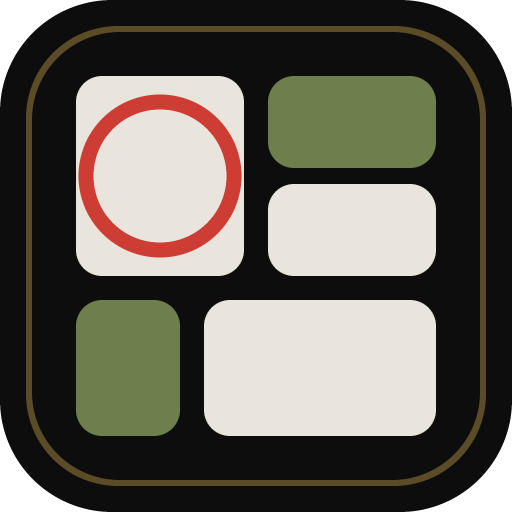
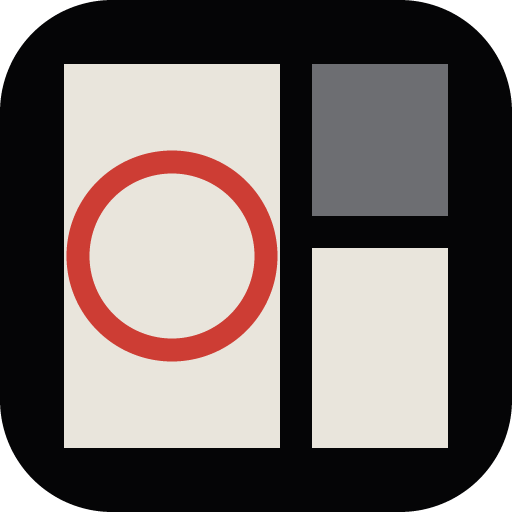
Give it a mark, and draw the name beside it
The bento grid logo, on the site header, the lock screen, the favicon
and the extension toolbar icon.

It started as four compartments and that was wrong. Four near equal
cells in alternating cream and grey read as a checkerboard rather than
as a bento, and at sixteen pixels they turned into a smudge. Three
cells with a real size hierarchy read as compartments and survive being
shrunk to a tab icon. That was found by rasterising the thing and
looking at it rather than by reasoning about it, which is also how the
grease circle was caught bursting out of the compartment it was meant
to sit inside.

BENTO beside it is drawn as outlines rather than set in a typeface. A
logo is artwork, so this way it carries no font dependency, renders the
same everywhere, and the extension embeds the identical paths without a
font file going into an MV3 bundle. The type rule survives intact: live
text is still Oswald and IBM Plex Mono, and there is no third face in
the project. Each letter is cut by a slot at the same height, echoing
the perforations down the edge of a frame.

On first paint the letters come up one at a time and the circle pencils
itself in, both reusing keyframes that already existed. Hovering winds
the compartments on a rung in sequence.

The toolbar icon was still drawing itself in a matcha green from the
palette this design replaced, so it now matches the rest.

The tag hover sweep is a background-size transition rather than a
[…]

diff --git a/website/components/Wordmark.tsx b/website/components/Wordmark.tsx
@@ -1,22 +1,130 @@
 import Link from "next/link"
 
 /**
- * The film leader. Matches the extension popup's header exactly: the name in
- * wide tracked Oswald, a roll number beside it, and the frame count off to the
- * right where a camera would show its exposure counter.
+ * The mark: logo D, the bento grid.
+ *
+ * Three compartments with a real size hierarchy, the largest circled in grease
+ * pencil. It is the product in miniature, a bento tray and a contact sheet at
+ * once, which is the whole conceit of the app in one square.
+ *
+ * Three and not four: four near equal cells in alternating colours read as a
+ * checkerboard rather than as compartments, and they turned to mush at tab
+ * size. This was drawn, rasterised and looked at before it was kept.
+ *
+ * The circle is the same gesture as starring a bookmark, so the identity and
+ * the app's one interactive flourish are literally the same drawing.
+ */
+export function Mark({ className = "", animate = false }: { className?: string; animate?: boolean }) {
+  return (
+    <svg viewBox="0 0 64 64" className={className} aria-hidden focusable="false">
+      {/* Compartments. data-cell drives the hover advance, see globals.css. */}
+      <g className="mark-cells">
+        <rect data-cell="0" x="8" y="8" width="27" height="48" fill="var(--color-print)" />
+        <rect data-cell="1" x="39" y="8" width="17" height="19" fill="var(--color-silver-dim)" />
+        <rect data-cell="2" x="39" y="31" width="17" height="25" fill="var(--color-print)" />
+      </g>
+
+      {/*
+       * The grease circle, the same hand drawn path the star uses, sized to sit
+       * inside the tall compartment rather than burst out of it. Not a clean
+       * ellipse on purpose: it wobbles, and it overshoots where the hand came
+       * back round.
+       */}
+      <g transform="translate(21.5,32) scale(1.18) translate(-15,-15)">
+        <path
+          className={animate ? "animate-grease" : undefined}
+          style={animate ? ({ "--dash": "78" } as React.CSSProperties) : undefined}
+          d="M20.8 5.9c4.4 1.6 6.4 6.7 4.6 11.1c-1.9 4.6-7.4 7.3-12.2 6.1C8.2 21.9 5 17.2 5.7 12.4C6.4 7.8 10.8 4.4 15.6 4.6c3.4.1 6.7 1.7 8.5 4.3c.5.8.9 1.6 1.1 2.5"
+          fill="none"
+          stroke="var(--color-grease)"
+          strokeWidth="2.4"
+          strokeLinecap="round"
+          strokeLinejoin="round"
+        />
+      </g>
+    </svg>
+  )
+}
+
+/*
+ * The letters, drawn rather than set.
+ *
+ * A logo is artwork, so it carries no font dependency, renders identically
+ * wherever it lands, and lets the extension embed the exact same paths without
+ * shipping a font file into an MV3 bundle. It also means the type rule stays
+ * intact: live text is still Oswald and IBM Plex Mono everywhere else, and
+ * there is no third face in the project.
+ *
+ * Proportions follow Oswald, condensed and heavy, then cut: a slot through
+ * every letter at the same height, echoing the sprocket perforations that run
+ * down the edge of a frame. Each letter is one path so they can be staggered.
+ */
+const LETTERS: string[] = [
+  // B
+  "M0 0h11.4c4.2 0 6.6 2.1 6.6 5.9c0 2.5-1.1 4.2-3.2 5.1c2.6.8 4 2.7 4 5.6c0 4.2-2.6 6.4-7.2 6.4H0V0zm5.6 4.3v4.6h4.5c1.6 0 2.5-.8 2.5-2.3c0-1.5-.9-2.3-2.5-2.3H5.6zm0 8.8v5.4h5c1.8 0 2.8-.9 2.8-2.7c0-1.8-1-2.7-2.8-2.7h-5z",
+  // E
+  "M0 0h16.6v4.5H5.6v4.3h9.9v4.4H5.6v5.3h11.3V23H0V0z",
+  // N
+  "M0 0h5.3l8.1 13.1V0h5.5v23h-5.3L5.5 9.9V23H0V0z",
+  // T
+  "M0 0h18.6v4.6h-6.5V23H6.5V4.6H0V0z",
+  // O
+  "M9.9 0C16 0 20 4.6 20 11.5C20 18.4 16 23 9.9 23C3.9 23 0 18.4 0 11.5C0 4.6 3.9 0 9.9 0zm0 4.7c-2.6 0-4.2 2.5-4.2 6.8c0 4.3 1.6 6.8 4.2 6.8c2.7 0 4.3-2.5 4.3-6.8c0-4.3-1.6-6.8-4.3-6.8z"
+]
+
+/** Where each letter starts, so tracking is explicit rather than emergent. */
+const OFFSETS = [0, 25, 49, 75, 97]
+const WORD_WIDTH = 118
+
+/**
+ * "BENTO", as outlines.
+ *
+ * The accessible name comes from the link that wraps it, so this carries no
+ * text of its own and is hidden from assistive technology.
+ */
+function Letters({ animate }: { animate: boolean }) {
+  return (
+    <svg
+      viewBox={`0 0 ${WORD_WIDTH} 23`}
+      className="wordmark-letters"
+      aria-hidden
+      focusable="false"
+      role="presentation"
+    >
+      {LETTERS.map((d, i) => (
+        <g key={i} transform={`translate(${OFFSETS[i]},0)`}>
+          <path d={d} fill="currentColor" style={animate ? { animationDelay: `${i * 55}ms` } : undefined} />
+          {/* The cut. Painted in the page ground, so it reads as a slot rather
+              than a line drawn on top. */}
+          <rect x="-1" y="10.2" width="23" height="1.6" fill="var(--color-gutter)" />
+        </g>
+      ))}
+    </svg>
+  )
+}
+
+/**
+ * The film leader: the mark, the name, and a roll number beside it.
+ *
+ * On first paint the letters develop in one at a time, the way a print comes
+ * up in the tray, and the grease circle draws itself. Hovering advances the
+ * compartments one rung up the alpha ladder in sequence, left to right, like a
+ * sheet being wound on. All of it sits behind the reduced motion block.
  */
 export function Wordmark({ href = "/app", size = "md" }: { href?: string; size?: "md" | "lg" }) {
-  const name = size === "lg" ? "text-[26px]" : "text-[20px]"
+  const markSize = size === "lg" ? "h-9 w-9" : "h-7 w-7"
+  const wordSize = size === "lg" ? "h-[22px]" : "h-[17px]"
 
   return (
-    <Link href={href} className="group flex items-baseline gap-2.5">
-      <span
-        className={`${name} font-[family-name:var(--font-head)] font-semibold uppercase leading-none tracking-[0.18em] text-print transition-colors group-hover:text-grease`}
-      >
-        Bento
-      </span>
-      <span className="font-[family-name:var(--font-mono)] text-[9.5px] uppercase tracking-[0.16em] text-silver-dim">
-        Roll 01
+    <Link href={href} aria-label="Bento" className="wordmark group flex items-center gap-2.5">
+      <Mark className={`${markSize} shrink-0`} animate />
+      <span className="flex items-baseline gap-2.5">
+        <span className={`${wordSize} block text-print`}>
+          <Letters animate />
+        </span>
+        <span className="font-[family-name:var(--font-mono)] text-[9.5px] uppercase tracking-[0.16em] text-silver-dim tabular-nums">
+          Roll 01
+        </span>
       </span>
     </Link>
   )
@@ -25,19 +133,19 @@ export function Wordmark({ href = "/app", size = "md" }: { href?: string; size?:
 /** The exposure counter, sitting where a camera would show it. */
 export function ExposureCount({ count }: { count: number }) {
   return (
-    <span className="font-[family-name:var(--font-mono)] text-[9.5px] uppercase tracking-[0.14em] text-silver">
+    <span className="font-[family-name:var(--font-mono)] text-[9.5px] uppercase tracking-[0.14em] text-silver tabular-nums">
       {count} exp
     </span>
   )
 }
 
 /**
- * The hand drawn grease pencil circle, shared by the tray and the lock screen.
- * Deliberately not a clean ellipse: it wobbles, and it overshoots where the
- * hand came back round. Same path data as the extension popup.
+ * The hand drawn grease pencil circle, shared by the tray, the lock screen and
+ * the mark above. Deliberately not a clean ellipse: it wobbles, and it
+ * overshoots where the hand came back round. Same path data as the extension.
  *
- * When `draw` is set the stroke animates itself on, so starring something
- * looks like the pencil actually being used rather than an icon swapping.
+ * When `draw` is set the stroke animates itself on, so starring something looks
+ * like the pencil actually being used rather than an icon swapping.
  */
 export function GreaseCircle({ marked, draw = false }: { marked: boolean; draw?: boolean }) {
   if (!marked) {

diff --git a/website/app/globals.css b/website/app/globals.css
@@ -278,6 +278,14 @@
   }
 
   /* The frame number, the only place red is used as text. */
+  /* Tabular figures everywhere a number changes in place. Proportional digits
+     make a counter jitter as it ticks, which is the sort of thing you notice
+     without being able to say why. */
+  .frame-no,
+  .frame-stamp {
+    font-variant-numeric: tabular-nums;
+  }
+
   .frame-no {
     font-family: var(--font-head);
     font-size: 11px;
@@ -543,6 +551,48 @@
   }
 
   /*
+     The wordmark: the mark, then BENTO drawn as outlines.
+     ------------------------------------------------------------------------ */
+  .wordmark-letters {
+    height: 100%;
+    width: auto;
+    display: block;
+    overflow: visible;
+  }
+
+  /* Each letter comes up on its own beat, the way a print does in the tray.
+     Backwards fill so nothing flashes at full opacity before its turn. */
+  .wordmark-letters path {
+    animation: letter-up 520ms cubic-bezier(0.2, 0.7, 0.3, 1) backwards;
+  }
+
+  /* Hovering winds the sheet on: each compartment steps up a rung in turn. */
+  .wordmark:hover .mark-cells rect {
+    animation: cell-advance 620ms ease;
+  }
+
+  .wordmark:hover .mark-cells rect[data-cell="1"] {
+    animation-delay: 70ms;
+  }
+
+  .wordmark:hover .mark-cells rect[data-cell="2"] {
+    animation-delay: 140ms;
+  }
+
+  .wordmark:hover .mark-cells rect[data-cell="3"] {
+    animation-delay: 210ms;
+  }
+
+  /* The roll number steps up with them rather than staying dim. */
+  .wordmark span {
+    transition: color 200ms ease;
+  }
+
+  .wordmark:hover .text-silver-dim {
+    color: var(--color-silver);
+  }
+
+  /*
      The two segment switch, currently only sign in against new account.
      ------------------------------------------------------------------------
      A pair of buttons sharing one hairline box rather than two separate ones,
@@ -691,6 +741,28 @@
   .tag:hover {
     color: var(--color-print);
     background: var(--line-field);
+  }
+
+  /* The fill sweeps in from the left rather than switching on, so hovering a
+     tag looks like ink being drawn across it.
+
+     A background-size sweep rather than a transformed pseudo element. Both
+     work, but a pseudo element's transform cannot be read back through
+     getComputedStyle, so this is the version that can actually be verified
+     rather than assumed. */
+  .tag {
+    background-image: linear-gradient(var(--line-hatch), var(--line-hatch));
+    background-repeat: no-repeat;
+    background-position: left center;
+    background-size: 0% 100%;
+    transition:
+      background-size 220ms cubic-bezier(0.2, 0.7, 0.3, 1),
+      color 160ms ease,
+      box-shadow 160ms ease;
+  }
+
+  .tag:hover {
+    background-size: 100% 100%;
   }
 
   .tag-on {
@@ -856,6 +928,35 @@
   to {
     opacity: 0;
     transform: scaleX(1);
+  }
+}
+
+/* One letter of the wordmark coming up, matching develop-in's settle. */
+@keyframes letter-up {
+  from {
+    opacity: 0;
+    transform: translateY(4px);
+    filter: brightness(0.4) contrast(1.5);
+  }
+  to {
+    opacity: 1;
+    transform: translateY(0);
+    filter: none;
+  }
+}
+
+/* A compartment of the mark advancing one rung and coming back. */
+@keyframes cell-advance {
+  0% {
+    opacity: 1;
+  }
+  40% {
+    opacity: 0.45;
+    transform: translateX(1.5px);
+  }
+  100% {
+    opacity: 1;
+    transform: translateX(0);
   }
 }
 

diff --git a/extension/popup.tsx b/extension/popup.tsx
@@ -52,12 +52,68 @@ export default function Popup() {
 /* Leader                                                                      */
 /* -------------------------------------------------------------------------- */
 
+/**
+ * The mark and the wordmark, the same drawing the website uses.
+ *
+ * Copied rather than imported: the two surfaces are separate npm projects with
+ * no shared build step, which is the same reason lib/types.ts is a hand kept
+ * mirror. If you change one, change the other, and change
+ * website/public/icon.svg and scripts/make-icon.mjs with them.
+ */
+function Mark() {
+  return (
+    <svg viewBox="0 0 64 64" className="leader-logo" aria-hidden focusable="false">
+      <rect x="8" y="8" width="27" height="48" fill="var(--print-cream)" />
+      <rect x="39" y="8" width="17" height="19" fill="var(--silver-dim)" />
+      <rect x="39" y="31" width="17" height="25" fill="var(--print-cream)" />
+      <g transform="translate(21.5,32) scale(1.18) translate(-15,-15)">
+        <path
+          d="M20.8 5.9c4.4 1.6 6.4 6.7 4.6 11.1c-1.9 4.6-7.4 7.3-12.2 6.1C8.2 21.9 5 17.2 5.7 12.4C6.4 7.8 10.8 4.4 15.6 4.6c3.4.1 6.7 1.7 8.5 4.3c.5.8.9 1.6 1.1 2.5"
+          fill="none"
+          stroke="var(--grease)"
+          strokeWidth="2.4"
+          strokeLinecap="round"
+          strokeLinejoin="round"
+        />
+      </g>
+    </svg>
+  )
+}
+
+function Letters() {
+  return (
+    <svg viewBox="0 0 118 23" className="leader-letters" aria-label="Bento" role="img">
+        <g transform="translate(0,0)">
+          <path d="M0 0h11.4c4.2 0 6.6 2.1 6.6 5.9c0 2.5-1.1 4.2-3.2 5.1c2.6.8 4 2.7 4 5.6c0 4.2-2.6 6.4-7.2 6.4H0V0zm5.6 4.3v4.6h4.5c1.6 0 2.5-.8 2.5-2.3c0-1.5-.9-2.3-2.5-2.3H5.6zm0 8.8v5.4h5c1.8 0 2.8-.9 2.8-2.7c0-1.8-1-2.7-2.8-2.7h-5z" fill="var(--print-cream)" />
+          <rect x="-1" y="10.2" width="23" height="1.6" fill="var(--gutter)" />
+        </g>
+        <g transform="translate(25,0)">
+          <path d="M0 0h16.6v4.5H5.6v4.3h9.9v4.4H5.6v5.3h11.3V23H0V0z" fill="var(--print-cream)" />
+          <rect x="-1" y="10.2" width="23" height="1.6" fill="var(--gutter)" />
+        </g>
+        <g transform="translate(49,0)">
+          <path d="M0 0h5.3l8.1 13.1V0h5.5v23h-5.3L5.5 9.9V23H0V0z" fill="var(--print-cream)" />
+          <rect x="-1" y="10.2" width="23" height="1.6" fill="var(--gutter)" />
+        </g>
+        <g transform="translate(75,0)">
+          <path d="M0 0h18.6v4.6h-6.5V23H6.5V4.6H0V0z" fill="var(--print-cream)" />
+          <rect x="-1" y="10.2" width="23" height="1.6" fill="var(--gutter)" />
+        </g>
+        <g transform="translate(97,0)">
+          <path d="M9.9 0C16 0 20 4.6 20 11.5C20 18.4 16 23 9.9 23C3.9 23 0 18.4 0 11.5C0 4.6 3.9 0 9.9 0zm0 4.7c-2.6 0-4.2 2.5-4.2 6.8c0 4.3 1.6 6.8 4.2 6.8c2.7 0 4.3-2.5 4.3-6.8c0-4.3-1.6-6.8-4.3-6.8z" fill="var(--print-cream)" />
+          <rect x="-1" y="10.2" width="23" height="1.6" fill="var(--gutter)" />
+        </g>
+    </svg>
+  )
+}
+
 function Leader() {
   return (
     <>
       <div className="leader">
         <div className="leader-mark">
-          <span className="leader-name">Bento</span>
+          <Mark />
+          <Letters />
           <span className="leader-roll">Roll 01</span>
         </div>
         <span className="leader-count">ISO 400</span>

diff --git a/extension/popup.css b/extension/popup.css
@@ -66,8 +66,22 @@ body {
 
 .leader-mark {
   display: flex;
-  align-items: baseline;
+  align-items: center;
   gap: 8px;
+}
+
+.leader-logo {
+  width: 22px;
+  height: 22px;
+  flex: none;
+}
+
+/* The name, drawn rather than set. Same outlines as the website, so no font
+   file has to be shipped into the bundle for it. */
+.leader-letters {
+  height: 15px;
+  width: auto;
+  display: block;
 }
 
 .leader-name {
